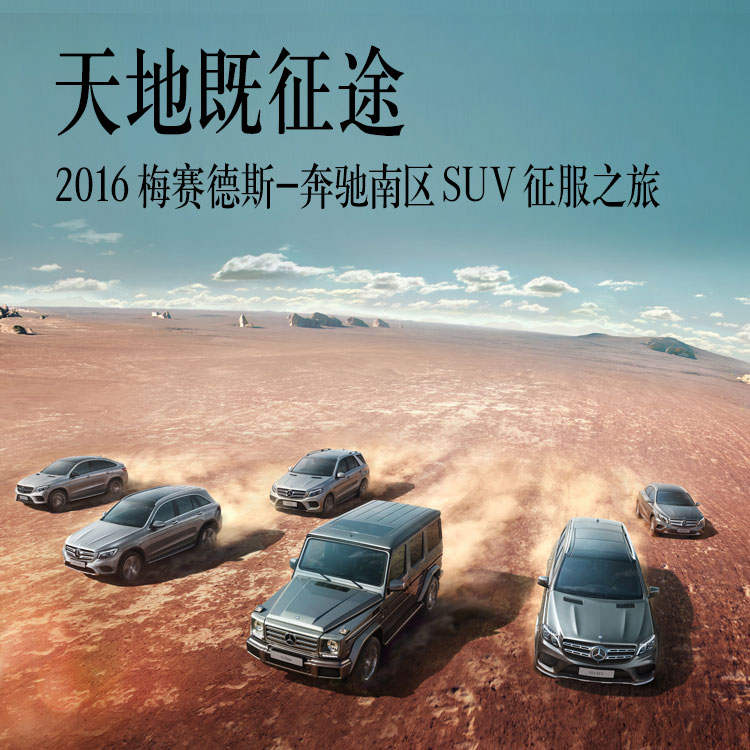
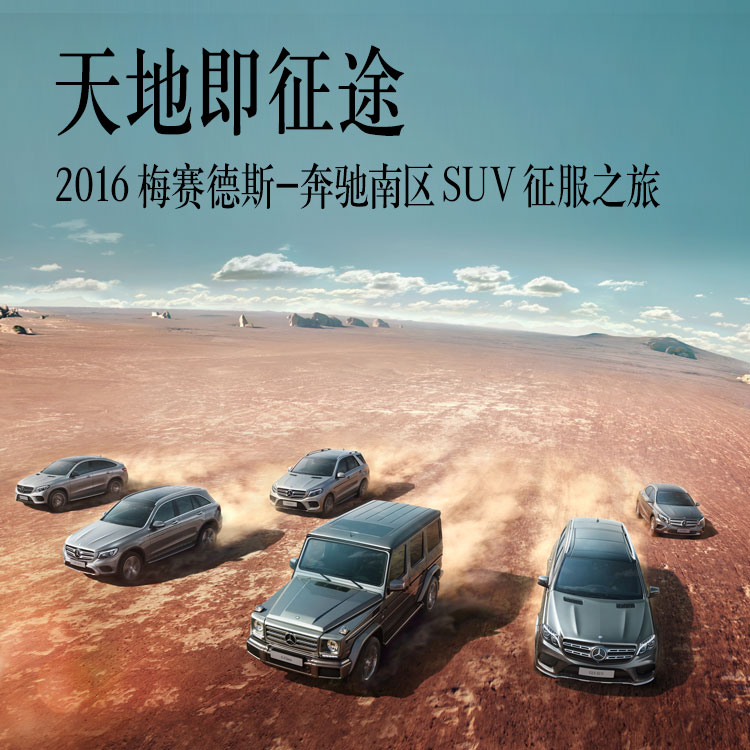
share

Changed region(s): [[0.2453, 0.0613, 0.368, 0.184]]

diff --git a/static/js/index.js b/static/js/index.js
@@ -2135,7 +2135,7 @@ $(function(){
             shareJson = {
                 link:"http://benz.importos.com",
                 imgUrl:"http://benz.importos.com/static/image/share-little-icon.jpg",
-                title:"天地既征途-2016 梅赛德斯-奔驰南区SUV征服之旅",
+                title:"天地即征途-2016 梅赛德斯-奔驰南区SUV征服之旅",
                 desc:"天地即征途——2016 梅赛德斯-奔驰SUV 即将在万众瞩目中强势来袭，作为南区该活动的前奏预热，将在南区10 大城市全线倾情展开梅赛德斯-奔驰南区SUV 征服之旅"
             };
 			wx.onMenuShareTimeline(shareJson);
@@ -2145,8 +2145,8 @@ $(function(){
             share();
         });
 		wx.error(function(res){
-			$.get("/wx/portal/update_access_token/",function(data){
-				$.post("/wx/portal/wxconfig/",{
+			$.get("/portal/update_access_token/",function(data){
+				$.post("/portal/wxconfig/",{
 					"url":location.href
 				},function(data){
 					wx.config(data);

diff --git a/static/js-modify/share.js b/static/js-modify/share.js
@@ -7,7 +7,7 @@ $(function(){
             shareJson = {
                 link:"http://benz.importos.com",
                 imgUrl:"http://benz.importos.com/static/image/share-little-icon.jpg",
-                title:"天地既征途-2016 梅赛德斯-奔驰南区SUV征服之旅",
+                title:"天地即征途-2016 梅赛德斯-奔驰南区SUV征服之旅",
                 desc:"天地即征途——2016 梅赛德斯-奔驰SUV 即将在万众瞩目中强势来袭，作为南区该活动的前奏预热，将在南区10 大城市全线倾情展开梅赛德斯-奔驰南区SUV 征服之旅"
             };
 			wx.onMenuShareTimeline(shareJson);
@@ -17,8 +17,8 @@ $(function(){
             share();
         });
 		wx.error(function(res){
-			$.get("/wx/portal/update_access_token/",function(data){
-				$.post("/wx/portal/wxconfig/",{
+			$.get("/portal/update_access_token/",function(data){
+				$.post("/portal/wxconfig/",{
 					"url":location.href
 				},function(data){
 					wx.config(data);

diff --git a/static/js/share.js b/static/js/share.js
@@ -8,7 +8,7 @@ $(function(){
             shareJson = {
                 link:"http://benz.importos.com",
                 imgUrl:"http://benz.importos.com/static/image/share-little-icon.jpg",
-                title:"天地既征途-2016 梅赛德斯-奔驰南区SUV征服之旅",
+                title:"天地即征途-2016 梅赛德斯-奔驰南区SUV征服之旅",
                 desc:"天地即征途——2016 梅赛德斯-奔驰SUV 即将在万众瞩目中强势来袭，作为南区该活动的前奏预热，将在南区10 大城市全线倾情展开梅赛德斯-奔驰南区SUV 征服之旅"
             };
 			wx.onMenuShareTimeline(shareJson);
@@ -18,8 +18,8 @@ $(function(){
             share();
         });
 		wx.error(function(res){
-			$.get("/wx/portal/update_access_token/",function(data){
-				$.post("/wx/portal/wxconfig/",{
+			$.get("/portal/update_access_token/",function(data){
+				$.post("/portal/wxconfig/",{
 					"url":location.href
 				},function(data){
 					wx.config(data);
